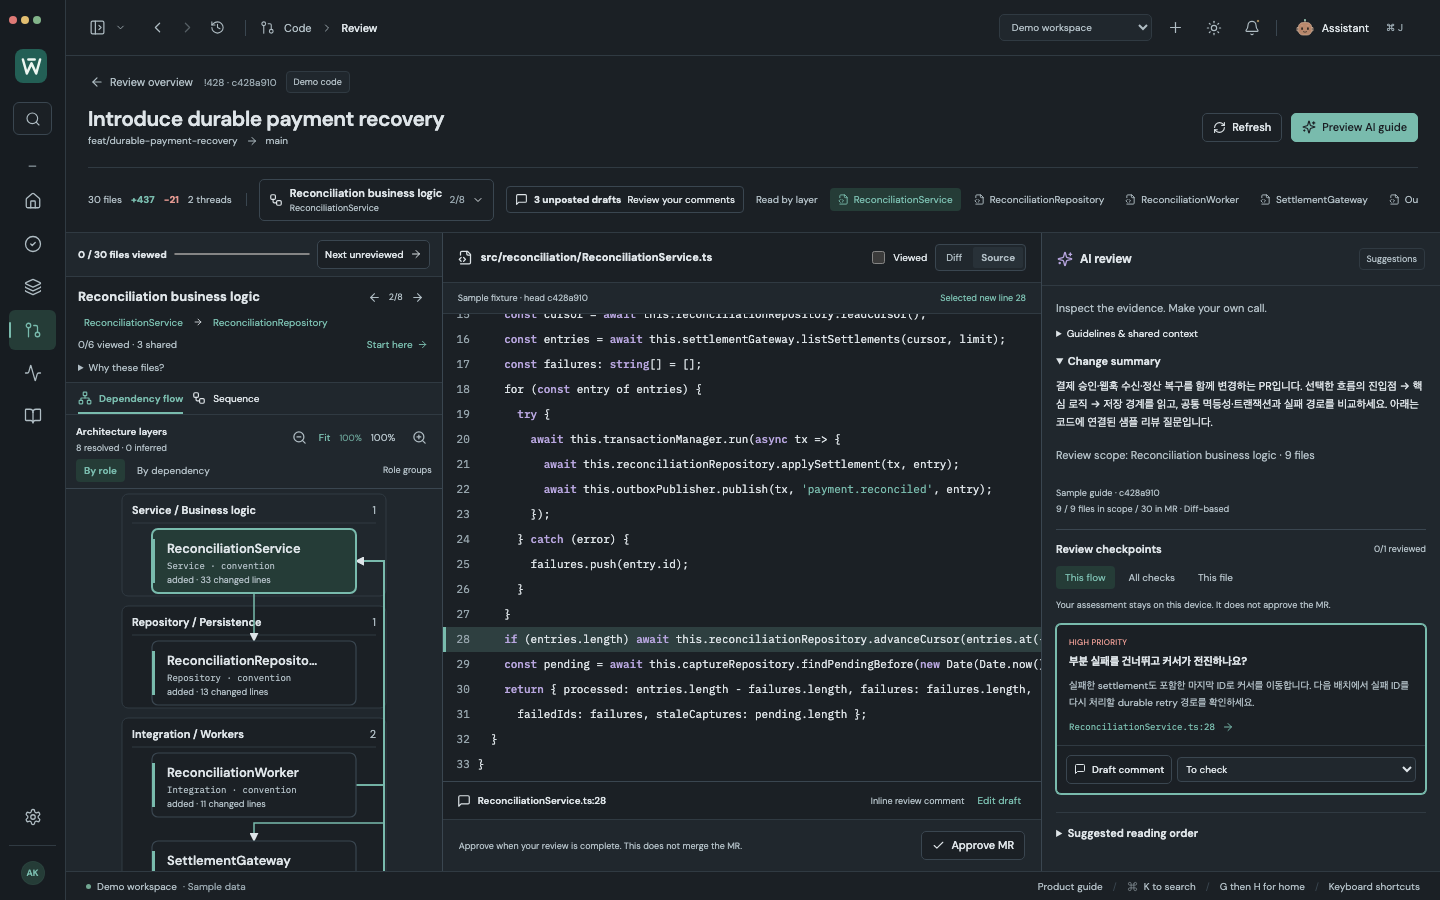
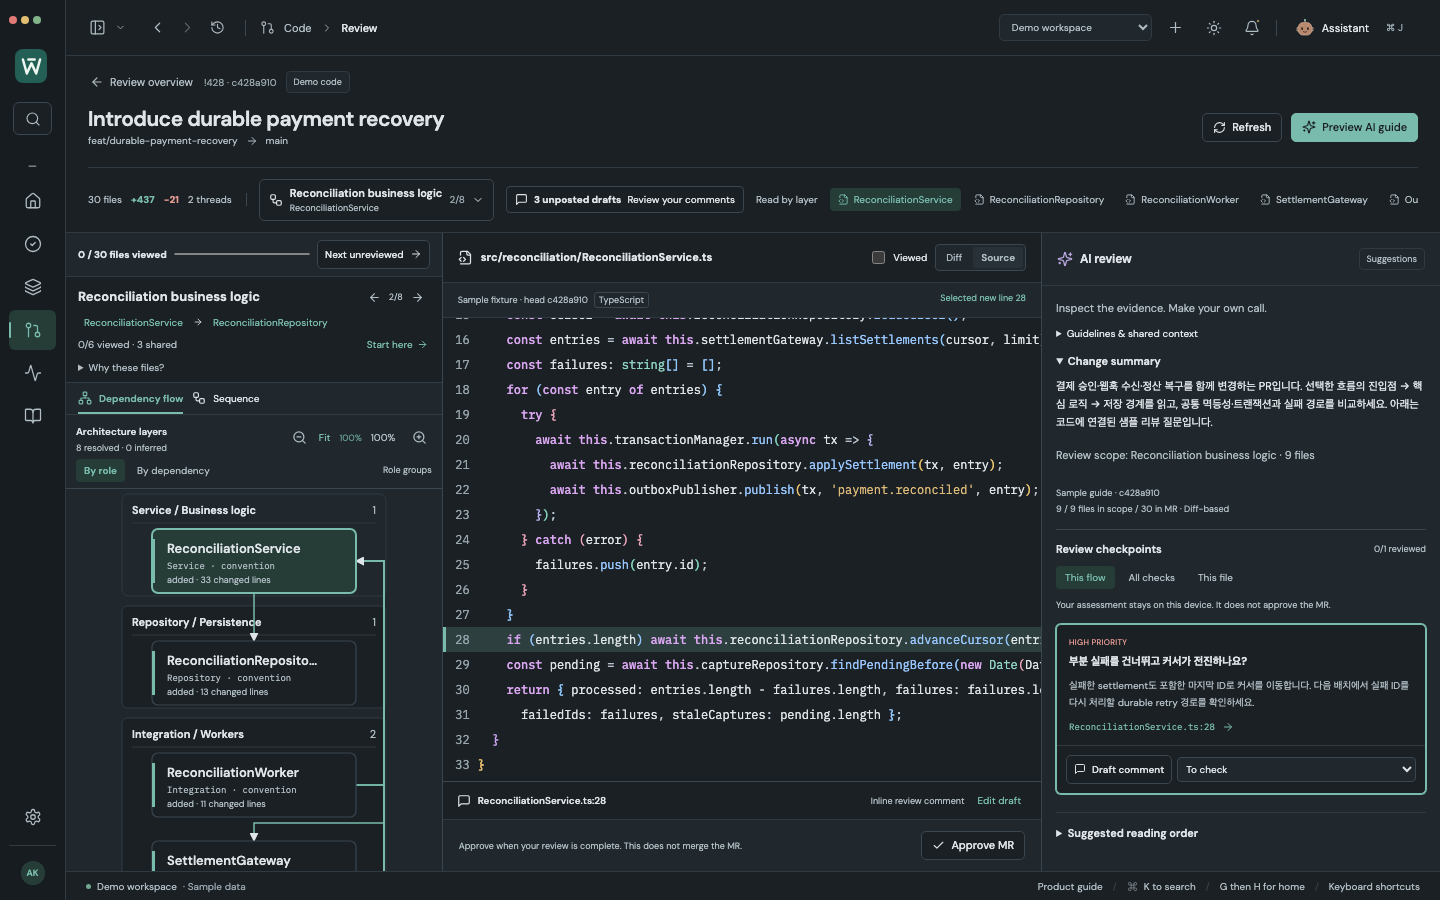
Add IDE syntax colors and rainbow brackets to code review

Changed region(s): [[0.3125, 0.3111, 0.7188, 0.56], [0.3438, 0.6844, 0.7188, 0.8089], [0.375, 0.5911, 0.5, 0.6533]]

diff --git a/src/components/ReviewWorkbench.jsx b/src/components/ReviewWorkbench.jsx
@@ -3,6 +3,7 @@ import "../review-polish.css";
 import ReviewGuidePanel from "./ReviewGuidePanel";
 import ReviewDraftNavigator from './ReviewDraftNavigator';
 import { listReviewDrafts } from '../lib/review-drafts.mjs';
+import { highlightCode, highlightDiff, codeLanguage } from '../lib/review-code.mjs';
 import { ReviewFlowPicker, ReviewFlowContext } from "./ReviewFlowNavigator";
 import "../review-collaboration.css";
 import "../review-local-git.css";
@@ -30,33 +31,12 @@ import {
 } from "lucide-react";
 import { buildGraph, basename, reviewPosition } from "../lib/review-model.mjs";
 import { invoke, isDesktop } from "../lib/integration-client";
-function CodeText({ text }) {
-  const pattern =
-    /(\/\/.*$|\/\*.*?\*\/|"(?:\\.|[^"\\])*"|'(?:\\.|[^'\\])*'|\b(?:async|await|class|const|let|var|return|if|else|try|catch|throw|new|export|import|from|interface|type|public|private|protected|readonly|static|extends|implements|function|void|boolean|number|string|package)\b|\b\d+\b)/g;
-  const pieces = String(text).split(pattern);
-  return (
-    <>
-      {pieces.map((part, i) => {
-        const type =
-          /^\/\//.test(part) || /^\/\*/.test(part)
-            ? "comment"
-            : /^["']/.test(part)
-              ? "string"
-              : /^\d+$/.test(part)
-                ? "number"
-                : /^[a-z]+$/.test(part) && i % 2 === 1
-                  ? "keyword"
-                  : "";
-        return type ? (
-          <span key={i} className={"syntax-" + type}>
-            {part}
-          </span>
-        ) : (
-          part
-        );
-      })}
-    </>
-  );
+function CodeText({ tokens }) {
+  return tokens?.length ? tokens.map((token, index) =>
+    token.types.length || token.depth !== null ? <span key={index}
+      className={`review-code-token ${token.types.join(' ')}${token.depth !== null ? ` rainbow-bracket bracket-${token.depth % 6}` : ''}`}
+      data-bracket-depth={token.depth ?? undefined}>{token.text}</span> : token.text
+  ) : ' ';
 }
 // Collapse strongly connected components before layering: cycles stay together,
 // while every edge between groups flows from an earlier layer to a later one.
@@ -500,6 +480,9 @@ export default function ReviewWorkbench({
   const file = files.find((f) => f.path === selected) || files[0];
   const sourceRef = file?.deleted_file ? mr.diff_refs.base_sha : mr.diff_refs.head_sha;
   const sourceKey = JSON.stringify([sourceRef, file?.deleted_file ? file?.old_path : file?.path]);
+  const sourceCode = source[sourceKey];
+  const highlightedSource = useMemo(() => highlightCode(sourceCode ?? '', file?.path), [sourceCode, file?.path]);
+  const highlightedDiff = useMemo(() => highlightDiff(file || {}, file?.content ?? (file?.deleted_file ? undefined : sourceCode)), [file, sourceCode]);
   useEffect(() => {
     onReviewState?.({ version: viewVersion, selected, line, side, tab, codeMode,
       guide, guidelines, activeFinding, zoom, autoFit, architectureMode, sequenceMode, sequenceStep, composerOpen, flowId: activeFlow?.id, flowViews: flowViews.current });
@@ -1252,7 +1235,7 @@ ${finding.reason}`;
             </div>
           </div>
           <div className="code-provenance">
-            {localCheckout ? "Local Git code" : live ? "Repository code" : "Sample fixture"} ·{" "}
+            <div>{localCheckout ? "Local Git code" : live ? "Repository code" : "Sample fixture"} ·{" "}
             {codeMode === "Source"
               ? (file.deleted_file ? "base" : "head") +
                 " " +
@@ -1261,6 +1244,7 @@ ${finding.reason}`;
                   : mr.diff_refs.head_sha
                 ).slice(0, 8)
               : "Old / New line numbers"}
+            <span className="code-language" title="Language syntax colors and matching bracket colors">{codeMode === 'Source' ? highlightedSource.label : codeLanguage(file.path)[1]}</span></div>
             {line && (
               <span>
                 Selected {side === "old" ? "old" : "new"} line {line}
@@ -1299,7 +1283,7 @@ ${finding.reason}`;
                   >
                     <span className="code-number">{i + 1}</span>
                     <code>
-                      <CodeText text={text || " "} />
+                      <CodeText tokens={highlightedSource.lines[i]} />
                     </code>
                   </button>
                 ))
@@ -1336,7 +1320,7 @@ ${finding.reason}`;
                           : " "}
                     </span>
                     <code>
-                      <CodeText text={r.text || " "} />
+                      <CodeText tokens={highlightedDiff[i]} />
                     </code>
                   </button>
                 ),

diff --git a/tests/review-code-colors.spec.js b/tests/review-code-colors.spec.js
@@ -1,0 +1,57 @@
+import { test, expect } from '@playwright/test';
+import { openComplexReview } from './fixtures/complex-demo.mjs';
+import { complexDemoSnapshot } from '../src/lib/complex-demo-review.js';
+
+for (const theme of ['light', 'dark']) test(`IDE syntax and bracket colors keep exact code and inline review usable in ${theme}`, async ({ page }) => {
+  const errors = []; page.on('pageerror', error => errors.push(error.message));
+  // Measure settled palettes, not the transient Source → Diff button background.
+  await page.emulateMedia({ reducedMotion: 'reduce' });
+  await openComplexReview(page);
+  if (theme === 'dark') await page.getByLabel('Toggle theme').click();
+  await page.getByLabel('Read PaymentCaptureService.ts', { exact: true }).click();
+  await expect(page.locator('.code-language')).toHaveText('TypeScript');
+  const kinds = await page.locator('.visual-code-scroll .review-code-token').evaluateAll(tokens =>
+    [...new Set(tokens.flatMap(token => [...token.classList]))]);
+  for (const kind of ['keyword', 'class-name', 'function', 'string', 'bracket-0', 'bracket-1', 'bracket-2']) expect(kinds).toContain(kind);
+  await page.getByRole('button', { name: 'Source', exact: true }).click();
+  const expected = complexDemoSnapshot().files.find(file => file.path === 'src/capture/PaymentCaptureService.ts').content;
+  const lines = await page.locator('.visual-code-line code').allTextContents();
+  expect(lines.map(line => line === ' ' ? '' : line).join('\n')).toBe(expected);
+  await page.getByRole('button', { name: 'Select source line 21', exact: true }).click();
+  await expect(page.locator('.visual-code-line.selected code')).toHaveText('    if (existing) return existing;');
+  await page.getByLabel('Diagram review comment').fill('Rainbow colors keep my inline comment on line 21.');
+  await page.getByRole('button', { name: 'Diff', exact: true }).click();
+  await expect(page.locator('.visual-code-line.selected')).toHaveAttribute('data-code-line', 'new-21');
+  await expect(page.locator('.visual-code-line.removed')).not.toHaveCount(0);
+
+  const contrastFailures = await page.locator('.visual-code-panel').evaluate(panel => {
+    const style = getComputedStyle(panel);
+    const canvas = document.createElement('canvas'); canvas.width = canvas.height = 1;
+    const context = canvas.getContext('2d');
+    const luminance = color => {
+      context.clearRect(0, 0, 1, 1);
+      context.fillStyle = style.getPropertyValue('--bg'); context.fillRect(0, 0, 1, 1);
+      context.fillStyle = color; context.fillRect(0, 0, 1, 1);
+      const channels = [...context.getImageData(0, 0, 1, 1).data].slice(0, 3).map(value => {
+        const v = value / 255; return v <= 0.04045 ? v / 12.92 : ((v + 0.055) / 1.055) ** 2.4;
+      });
+      return channels[0] * .2126 + channels[1] * .7152 + channels[2] * .0722;
+    };
+    const backgrounds = [style.getPropertyValue('--bg'), ...['.added', '.removed', '.selected'].map(selector =>
+      getComputedStyle(panel.querySelector(`.visual-code-line${selector}`)).backgroundColor)];
+    const colors = ['keyword', 'function', 'type', 'string', 'number', 'property', 'comment', 'punctuation'].map(name => `--code-${name}`)
+      .concat(Array.from({ length: 6 }, (_, index) => `--bracket-${index}`));
+    return colors.flatMap(name => backgrounds.flatMap(background => {
+      const a = luminance(style.getPropertyValue(name)), b = luminance(background);
+      const ratio = (Math.max(a, b) + .05) / (Math.min(a, b) + .05);
+      return ratio < 4.5 ? [{ name, background, ratio }] : [];
+    }));
+  });
+  expect(contrastFailures).toEqual([]);
+  await page.setViewportSize({ width: 980, height: 650 });
+  await page.getByRole('button', { name: 'Add demo comment', exact: true }).click();
+  const posted = page.locator('.component-comment').filter({ hasText: 'Rainbow colors keep my inline comment on line 21.' });
+  await expect(posted).toHaveCount(1);
+  await expect(posted.locator('small')).toHaveText('Line 21');
+  expect(errors).toEqual([]);
+});

diff --git a/src/review-code.css b/src/review-code.css
@@ -1,0 +1,51 @@
+.visual-code-panel {
+  --code-keyword: #7136a6;
+  --code-function: #185e9e;
+  --code-type: #09685f;
+  --code-string: #89450e;
+  --code-number: #923562;
+  --code-property: #79491c;
+  --code-comment: #53616e;
+  --code-punctuation: #526474;
+  --bracket-0: #80500e;
+  --bracket-1: #7441a6;
+  --bracket-2: #176291;
+  --bracket-3: #96334f;
+  --bracket-4: #12685d;
+  --bracket-5: #66559b;
+}
+:root[data-theme="dark"] .visual-code-panel {
+  --code-keyword: #d9a6f0;
+  --code-function: #99c8ff;
+  --code-type: #8fd4c6;
+  --code-string: #ddbb78;
+  --code-number: #eea8cb;
+  --code-property: #e8be97;
+  --code-comment: #9caebd;
+  --code-punctuation: #bdc9d2;
+  --bracket-0: #eac36d;
+  --bracket-1: #cba4ed;
+  --bracket-2: #92c7fa;
+  --bracket-3: #f0a8bc;
+  --bracket-4: #85d4c1;
+  --bracket-5: #bcb5f1;
+}
+.visual-code-panel .visual-code-line { font-size: 12px; tab-size: 2; }
+.visual-code-panel .code-provenance > div { display: flex; align-items: center; gap: 6px; flex-wrap: wrap; min-width: 0; }
+.code-language { color: var(--secondary); font-size: 9px; padding: 1px 4px; border: 1px solid var(--line-strong); border-radius: 3px; }
+.visual-code-panel .review-code-token { color: inherit; }
+.visual-code-panel .review-code-token:is(.operator,.punctuation) { color: var(--code-punctuation); }
+.visual-code-panel .review-code-token:is(.property,.attr-name,.parameter) { color: var(--code-property); }
+.visual-code-panel .review-code-token:is(.class-name,.builtin,.constant,.namespace) { color: var(--code-type); }
+.visual-code-panel .review-code-token:is(.function,.function-variable,.method) { color: var(--code-function); }
+.visual-code-panel .review-code-token:is(.keyword,.tag,.annotation) { color: var(--code-keyword); font-weight: 500; }
+.visual-code-panel .review-code-token:is(.number,.boolean) { color: var(--code-number); }
+.visual-code-panel .review-code-token:is(.string,.char,.regex,.attr-value) { color: var(--code-string); }
+.visual-code-panel .review-code-token.comment { color: var(--code-comment); font-style: italic; }
+.visual-code-panel .review-code-token.rainbow-bracket { font-weight: 500; }
+.visual-code-panel .review-code-token.bracket-0 { color: var(--bracket-0); }
+.visual-code-panel .review-code-token.bracket-1 { color: var(--bracket-1); }
+.visual-code-panel .review-code-token.bracket-2 { color: var(--bracket-2); }
+.visual-code-panel .review-code-token.bracket-3 { color: var(--bracket-3); }
+.visual-code-panel .review-code-token.bracket-4 { color: var(--bracket-4); }
+.visual-code-panel .review-code-token.bracket-5 { color: var(--bracket-5); }

diff --git a/src/connected.css b/src/connected.css
@@ -1131,20 +1131,6 @@
   line-height: 25px;
   min-height: 25px;
 }
-.syntax-keyword {
-  color: var(--purple);
-  font-weight: 500;
-}
-.syntax-string {
-  color: var(--accent);
-}
-.syntax-number {
-  color: var(--blue);
-}
-.syntax-comment {
-  color: var(--muted);
-  font-style: italic;
-}
 .model-fetch {
   align-self: flex-start;
   font-size: 10px;

diff --git a/src/main.jsx b/src/main.jsx
@@ -301,6 +301,7 @@ import {usePlan, parseQuick, dayKey} from "./lib/planning";
 import "./workspace.css";
 import "./product-polish.css";
 import "./review-large-pr.css";
+import "./review-code.css";
 import ProductGuide, { WorklaneMark } from "./components/ProductGuide";
 function App() {
   const [showGuide,setShowGuide] = useState(false);

diff --git a/docs/CODE_READABILITY.md b/docs/CODE_READABILITY.md
@@ -1,0 +1,21 @@
+# IDE-style code readability — 2026-10-07
+
+The MR review's Diff and Source views now use language-aware syntax colors and six repeating colors for nested bracket pairs. The font is 12px IBM Plex Mono with the existing 25px line spacing. Keyword, function, type, string, number and comment colors differ, and light/dark palettes retain the existing added, removed and selected-line backgrounds.
+
+Syntax uses the token stream from [Prism 1.30.0](https://prismjs.com/extending) (MIT). Grammars are bundled locally for JavaScript/TypeScript/JSX/TSX, Java, Kotlin, Python, JSON, YAML, SQL, Shell, CSS, HTML/XML/SVG, Go and C#. There is no CDN request. Worklane's wrapper renders token text through React, rather than rendering generated HTML.
+
+Brackets in comments, strings, regular expressions and YAML block scalars do not change code nesting. Whole-source tokenization retains multiline state. Diff old/new sides are tokenized independently, and hunk gaps reset partial context. When exact head source is already available, matching diff lines reuse its actual nesting; this never triggers an extra source request. Unknown languages and source strings over 200,000 characters remain exact plain text. These colors represent syntax, not compiler/type-checker semantic analysis.
+
+![Light syntax and rainbow brackets](media/complex-review-rainbow-light.png)
+
+![Dark syntax and rainbow brackets](media/complex-review-rainbow-dark.png)
+
+Verification in this follow-up:
+
+- **42/42 focused browser checks** passed: code text/line preservation, exact inline posting, large/small review navigation, draft/version safeguards, and light/dark/narrow layouts.
+- All syntax/bracket palette colors meet **4.5:1 contrast** against actual plain, added, removed and selected code backgrounds in both themes.
+- **124/124 adapter/model checks** passed, including five new multiline, literal, old/new nesting, language and plain-text fallback tests.
+- **11/11 native connected workflows**, production build and whitespace checks passed; zero renderer console errors or automatic external writes. Remote responses use protocol fixtures and local code uses real temporary Git repositories.
+- Eight actual 1440 × 900 screenshots captured with zero page errors. Reproduce with `node scripts/capture-complex-review.mjs` while Vite runs on port 5178.
+
+The preceding full browser run was 301/301 in the [large-PR audit](LARGE_PR_REVIEW_AUDIT.md); this follow-up reran the 42 affected review checks. Live company services and Claude output quality are not exercised.

diff --git a/docs/COMPLEX_PR_DEMO.md b/docs/COMPLEX_PR_DEMO.md
@@ -20,6 +20,8 @@ Large sequences default to **Step by step**: two participants, one source-linked
 
 Use **Review drafts** to resume a private note at its file, line and old/new side. Earlier old-side revisions remain available for reference. Approval shows viewed-file and unposted-draft counts and never posts drafts. **Hide editor** gives more space to code while keeping its draft intact; existing discussions expand on demand.
 
+Diff and Source also provide [language-aware syntax and rainbow bracket colors](CODE_READABILITY.md), with light/dark palettes that remain readable on changed and selected lines.
+
 ![Three principal review areas](media/complex-review-scopes.png)
 
 ![Capture diagram, exact source and human review beside AI checkpoints](media/complex-review-capture.png)
@@ -34,4 +36,4 @@ Use **Review drafts** to resume a private note at its file, line and old/new sid
 
 Reproduce the 1440 × 900 captures with `node scripts/capture-complex-review.mjs` while the development server runs on port 5178. The capture uses the actual app, selects source lines and fills private demo drafts; it does not modify styles for screenshots.
 
-Latest validation: 301 browser tests, 119 adapter/model tests, native profile/vault and 11 native connected checks, production build, and six captures with zero page errors. See [the repeated large-PR usability audit](LARGE_PR_REVIEW_AUDIT.md). Live GitLab and Claude connections are not exercised by this fixture.
+Large-PR validation: 301 browser tests, 119 adapter/model tests, native profile/vault and 11 native connected checks, production build, and six captures with zero page errors. See [the repeated large-PR usability audit](LARGE_PR_REVIEW_AUDIT.md). The subsequent [code readability pass](CODE_READABILITY.md) verified 42 affected browser checks, 124 adapter/model checks, 11 native connected workflows and eight updated captures. Live GitLab and Claude connections are not exercised by this fixture.

diff --git a/README.md b/README.md
@@ -45,6 +45,8 @@ Solid dependency edges represent resolved imports; dashed relationships and sequ
 
 Try **Demo workspace → Code → !428 → Review** for a larger example: 30 changed files spanning capture retries, webhook ordering and settlement reconciliation, with shared infrastructure and code-linked sample review questions. Large sequences offer readable step-by-step navigation; a PR-wide draft menu resumes exact code positions, and the composer folds for more reading space. [Complex PR walkthrough and screenshots](docs/COMPLEX_PR_DEMO.md).
 
+Diff and Source use [IDE-style syntax and rainbow bracket colors](docs/CODE_READABILITY.md), with language-aware highlighting, 12px code typography and contrasting light/dark palettes.
+
 ## Follow the work across tools
 
 **Issue → wiki → merge request → pipeline → back to your day.** Related items open in a context stack, preserving the original workspace.
@@ -210,6 +212,8 @@ npm run build                   # Production renderer build
 ```
 
 Latest validation: **301 browser tests**, **119 adapter/model tests** and **11 native connected workflow checks** passed in the [repeated large-PR usability audit](docs/LARGE_PR_REVIEW_AUDIT.md). Native profile compatibility, encrypted-vault checks and production build also passed. Native checks use an isolated profile, real temporary Git repositories and HTTPS protocol fixtures; no real company records are modified. Earlier memory lifecycle checks and planning reviews are recorded in [the practical planning review](docs/PLANNING_PRACTICAL_REVIEW.md) and [validation history](docs/LOCAL_DEVELOPMENT.md).
+
+The subsequent [code readability follow-up](docs/CODE_READABILITY.md) passed **42 affected browser checks**, **124 adapter/model checks** and **11 native connected workflows**, plus production build. It did not rerun the complete browser suite.
 
 ```text
 src/components/     Connected planning, commands, inspectors and review UI

diff --git a/docs/LOCAL_DEVELOPMENT.md b/docs/LOCAL_DEVELOPMENT.md
@@ -123,3 +123,7 @@ The [latest team review](LAYERED_REVIEW_USABILITY.md) supersedes earlier counts:
 ## Large PR usability review — 2026-10-07
 
 [Large-PR usability audit](LARGE_PR_REVIEW_AUDIT.md): **301/301 browser**, **119/119 adapter/model** and **11/11 native connected** checks passed. Native profile/vault, production build and whitespace checks passed. Three agents audited and independently rechecked diagram correctness, layout and review context/drafts. The final bounded review found no unresolved reproducible Critical/P1/P2. Six [complex demo screenshots](COMPLEX_PR_DEMO.md) captured with zero page errors; native connected checks recorded 71 synthetic HTTPS requests, zero renderer errors and zero automatic external writes. Live company services and Claude quality remain unverified.
+
+## Syntax and rainbow brackets — 2026-10-07
+
+[Code readability](CODE_READABILITY.md): **42/42 affected browser checks**, **124/124 adapter/model checks** and **11/11 native connected workflows** passed, plus build and whitespace checks. Bundled Prism grammars replace the line-by-line keyword regex; exact source text, old/new diff coordinates and review drafts remain intact. Both themes' syntax/bracket palettes meet 4.5:1 against plain/added/removed/selected backgrounds. Eight captures have zero page errors. The complete browser suite was not rerun in this follow-up; the preceding complete run remains 301/301. Native checks use protocol fixtures and temporary Git repositories, not company credentials.
